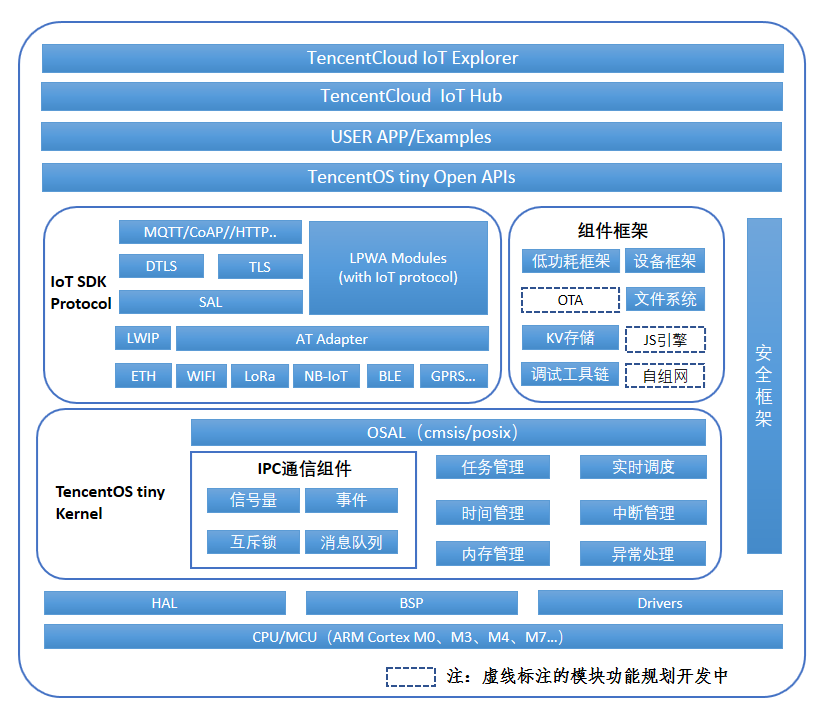
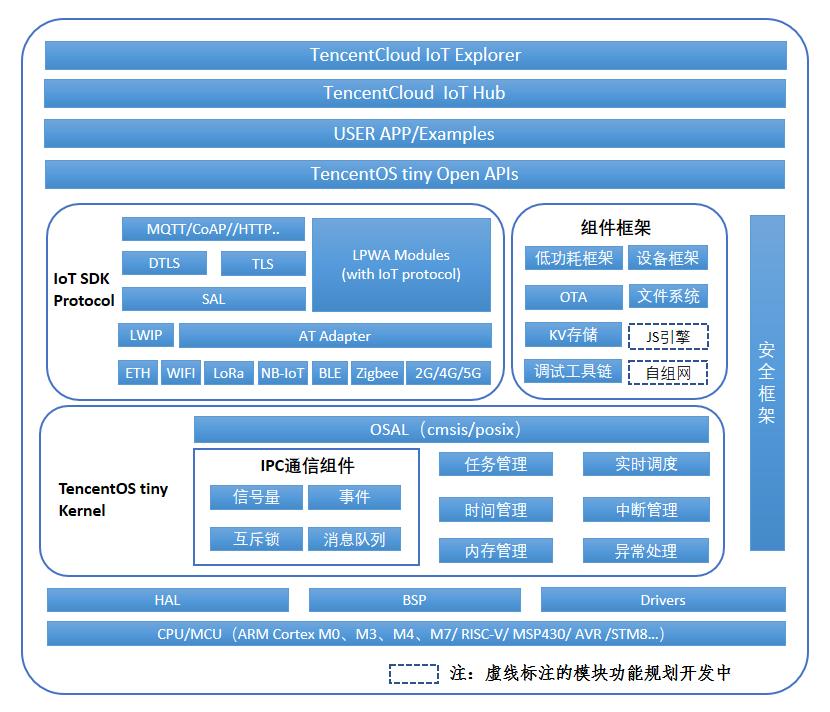
update ReadMe
update ReadMe

diff --git a/README.md b/README.md
@@ -17,7 +17,7 @@
 ![](./doc/image/introduction/TencentOS_tiny_Architecture.png)
 TencentOS tiny 主体架构图，从下到上主要包括：
 
-**CPU 库** ：TencentOS tiny 支持的 CPU IP 核架构，当前主要支持 ARM Cortex M0/3/4/7。
+**CPU 库** ：TencentOS tiny 支持的 CPU IP 核架构，当前主要支持 ARM Cortex M0/3/4/7，Cortex A7，RISC-V、MSP430、AVR、STM8等。
 
 **驱动管理层** ：包括板级支持包（BSP，主要由 MCU 芯片厂家开发与维护）、硬件抽象（HAL，主要由 TencentOS tiny提供，方便不同芯片的适配与移植）、设备驱动（Drivers，例如 Wi-Fi、GPRS、LoRa 等模块的驱动程序）。
 
@@ -60,7 +60,9 @@ TencentOS tiny 主体架构图，从下到上主要包括：
 
 ![](./doc/image/introduction/Partners.png)
 
-TencentOS tiny目前支持STM32、NXP、华大半导体、国民技术、GD32、Nordic、TI等主流MCU。当前已完成两套官方定制开发板设计，支持全系列STM32 NUCLEO官方评估板内核移植。TencentOS tiny 将携手合作伙伴为物联网终端厂家提供更优质的IoT终端软件解决方案，方便各种物联网设备快速接入腾讯云，共同扩展IoT生态，更好地支撑智慧城市、智能水表、智能家居、智能穿戴、车联网等多种行业应用。
+TencentOS tiny自开源发布以来也在努力发展合作伙伴，期待合作共赢，共同扩展IoT应用生态。目前已经与多家MCU/IP核厂家达成了合作，包括意法半导体、恩智浦半导体、兆易半导体、ARM、华大半导体、芯来科技等；也与无线SOC和模组厂家达成了广泛的合作关系，包括瑞兴恒方、国民技术、Nordic蓝牙、亮牛半导体、有人物联网等，
+
+除了MCU和模组外，TencentOS tiny也积极推进终端产品及项目的落地，目前已经形成了AI智慧农业、智能货柜、智慧会议室等方案，并且在腾讯内部与AI 平台部、腾讯微瓴、QQ family达成内部合作，共同扩展行业生态；同时也开始积极发展外部客户，目前与深圳光合显示科技的墨水屏零售标签、鑫悦购充电桩等达成业务合作。TencentOS tiny 将携手合作伙伴为物联网终端厂家提供更优质的IoT终端软件解决方案，方便各种物联网设备快速接入腾讯云，共同扩展IoT生态，更好地支撑智慧城市、智能水表、智能家居、智能穿戴、车联网等多种行业应用。
 
 欢迎IoT相关项目合作，有合作需求的请邮件联系TencentOS tiny官方工作人员，邮箱地址 ： supowang@tencent.com
 
